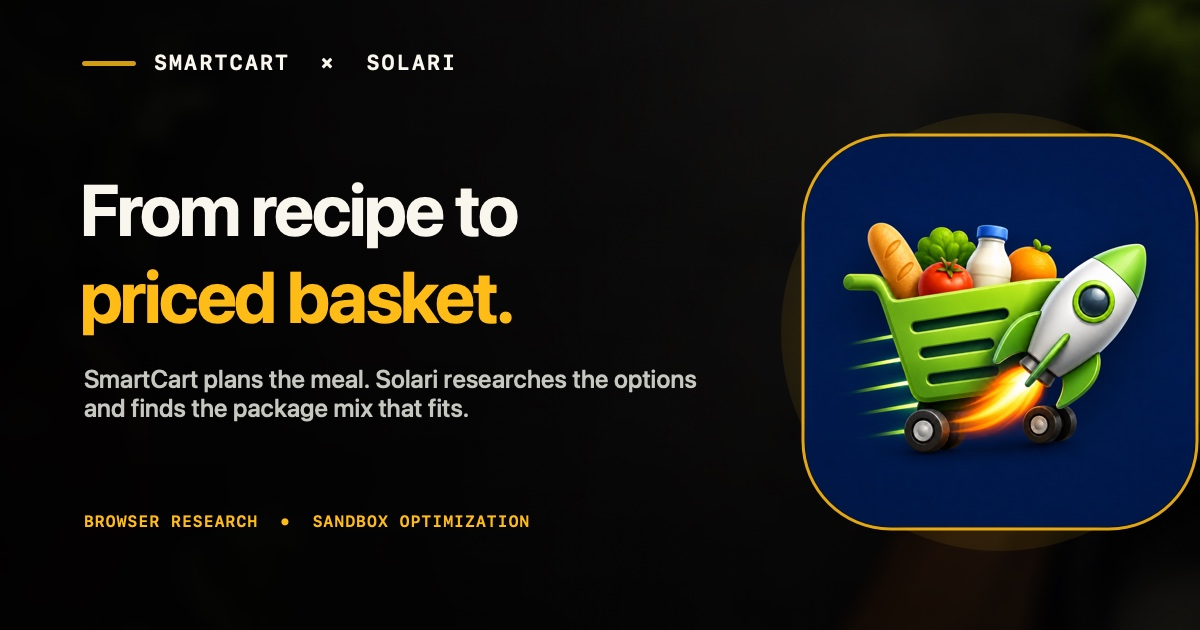
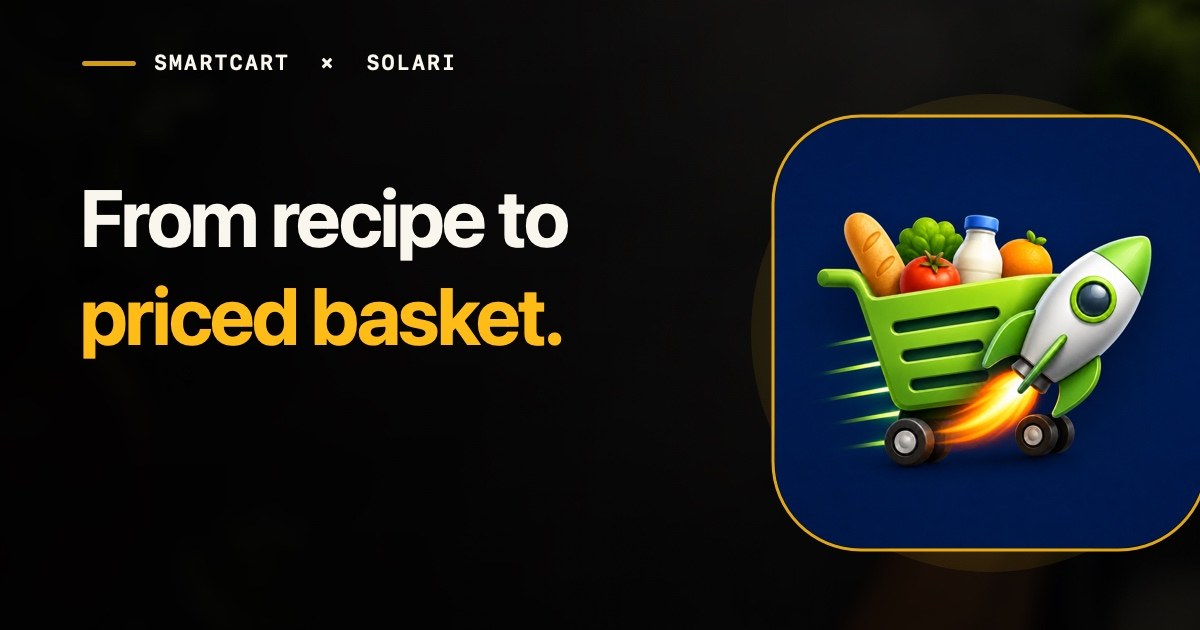
design: simplify the SmartCart Solari social card

diff --git a/website/solari-case-study/tools/render-social-preview.swift b/website/solari-case-study/tools/render-social-preview.swift
@@ -51,7 +51,6 @@ topWash.draw(in: fullRect, angle: -90)
 
 let amber = NSColor(calibratedRed: 1.0, green: 0.69, blue: 0.08, alpha: 1)
 let ivory = NSColor(calibratedRed: 0.97, green: 0.96, blue: 0.91, alpha: 1)
-let muted = NSColor(calibratedRed: 0.73, green: 0.74, blue: 0.70, alpha: 1)
 
 // A quiet Solari signal line gives the card energy without turning it into a tech diagram.
 amber.withAlphaComponent(0.82).setFill()
@@ -77,30 +76,19 @@ drawText("SMARTCART  ×  SOLARI",
          tracking: 2.2)
 
 drawText("From recipe to",
-         in: NSRect(x: 80, y: 372, width: 680, height: 92),
-         font: NSFont.systemFont(ofSize: 72, weight: .bold),
+         in: NSRect(x: 80, y: 358, width: 700, height: 102),
+         font: NSFont.systemFont(ofSize: 80, weight: .bold),
          color: ivory,
          tracking: -2.2)
 
 drawText("priced basket.",
-         in: NSRect(x: 80, y: 285, width: 680, height: 92),
-         font: NSFont.systemFont(ofSize: 72, weight: .bold),
+         in: NSRect(x: 80, y: 260, width: 700, height: 102),
+         font: NSFont.systemFont(ofSize: 80, weight: .bold),
          color: amber,
          tracking: -2.2)
 
-drawText("SmartCart plans the meal. Solari researches the options\nand finds the package mix that fits.",
-         in: NSRect(x: 84, y: 190, width: 650, height: 76),
-         font: NSFont.systemFont(ofSize: 25, weight: .medium),
-         color: muted)
-
-drawText("BROWSER RESEARCH  •  SANDBOX OPTIMIZATION",
-         in: NSRect(x: 84, y: 86, width: 680, height: 32),
-         font: NSFont.monospacedSystemFont(ofSize: 16, weight: .semibold),
-         color: amber,
-         tracking: 1.0)
-
 // Use the shipping icon exactly as-is. The amber frame visually connects it to Solari.
-let iconFrame = NSRect(x: 805, y: 103, width: 390, height: 390)
+let iconFrame = NSRect(x: 775, y: 82, width: 430, height: 430)
 let haloRect = iconFrame.insetBy(dx: -24, dy: -24)
 let halo = NSGradient(starting: amber.withAlphaComponent(0.28), ending: amber.withAlphaComponent(0.0))!
 halo.draw(in: NSBezierPath(ovalIn: haloRect), relativeCenterPosition: .zero)

diff --git a/website/solari-case-study/index.html b/website/solari-case-study/index.html
@@ -9,13 +9,13 @@
   <meta property="og:title" content="SmartCart can plan the meal. Solari helps price the basket.">
   <meta property="og:description" content="See how Solari added product research, package comparison, and estimated meal cost to SmartCart.">
   <meta property="og:url" content="https://exo-robotics.github.io/smartcart-solari/">
-  <meta property="og:image" content="https://exo-robotics.github.io/smartcart-solari/assets/social-preview.jpg?v=smartcart-solari-2026-09-02">
+  <meta property="og:image" content="https://exo-robotics.github.io/smartcart-solari/assets/social-preview.jpg?v=smartcart-solari-2026-09-02-v2">
   <meta property="og:image:width" content="1200">
   <meta property="og:image:height" content="630">
   <meta property="og:image:type" content="image/jpeg">
   <meta property="og:image:alt" content="SmartCart and Solari social card: From recipe to priced basket.">
   <meta name="twitter:card" content="summary_large_image">
-  <meta name="twitter:image" content="https://exo-robotics.github.io/smartcart-solari/assets/social-preview.jpg?v=smartcart-solari-2026-09-02">
+  <meta name="twitter:image" content="https://exo-robotics.github.io/smartcart-solari/assets/social-preview.jpg?v=smartcart-solari-2026-09-02-v2">
   <meta name="twitter:image:alt" content="SmartCart and Solari social card: From recipe to priced basket.">
   <title>SmartCart can plan the meal. Solari helps price the basket.</title>
   <link rel="icon" href="assets/favicon.svg" type="image/svg+xml">
